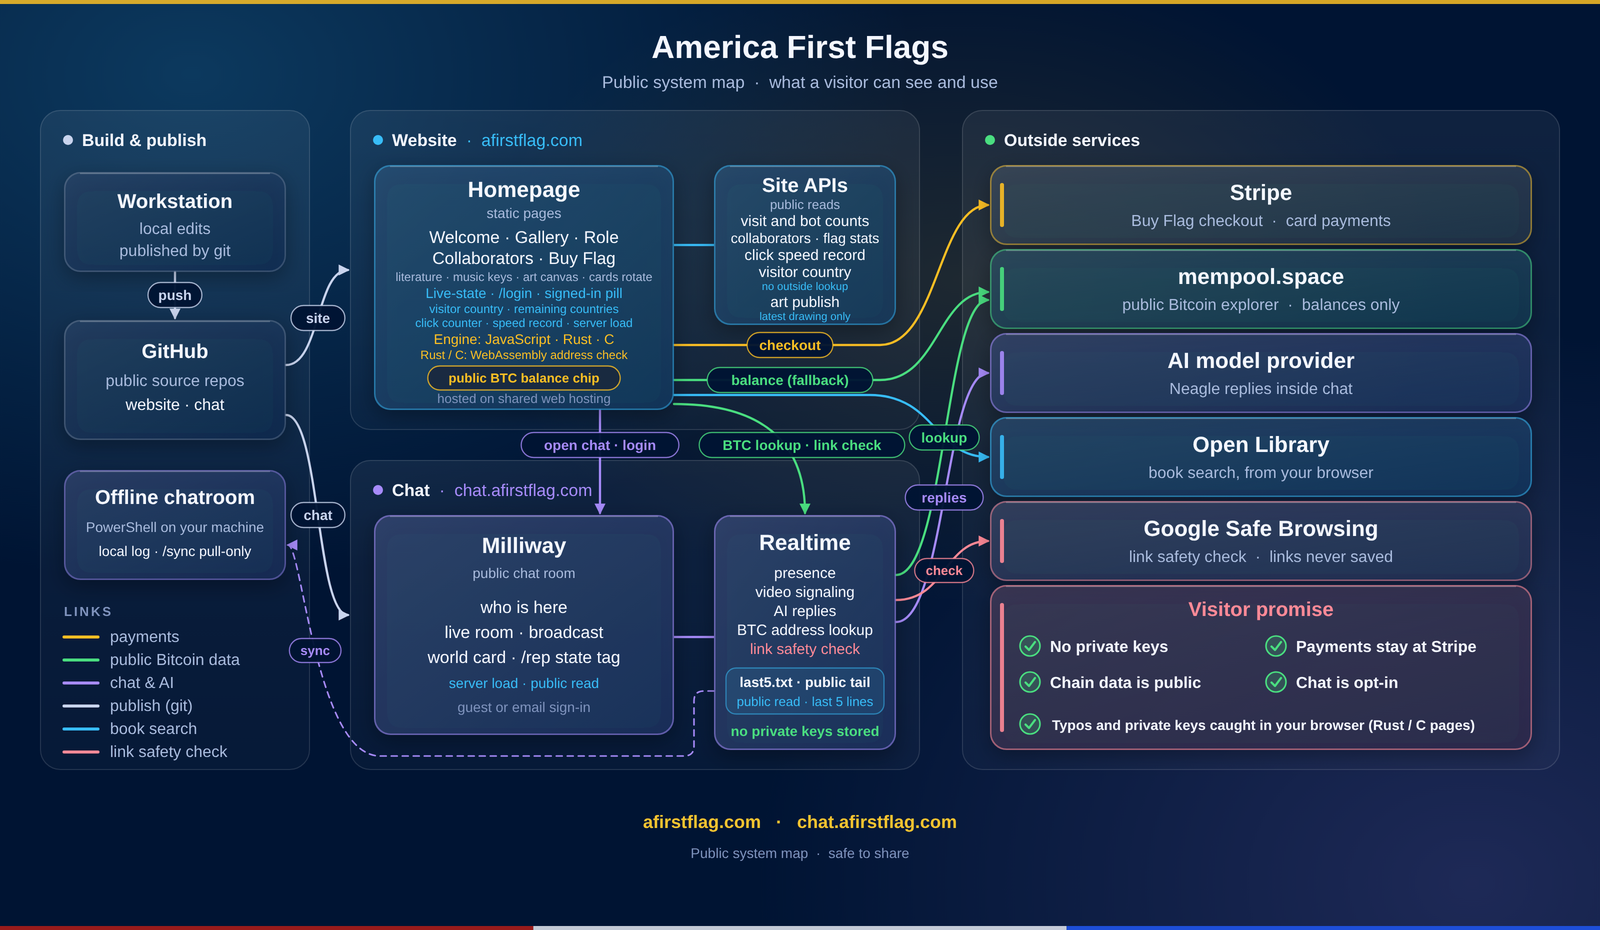
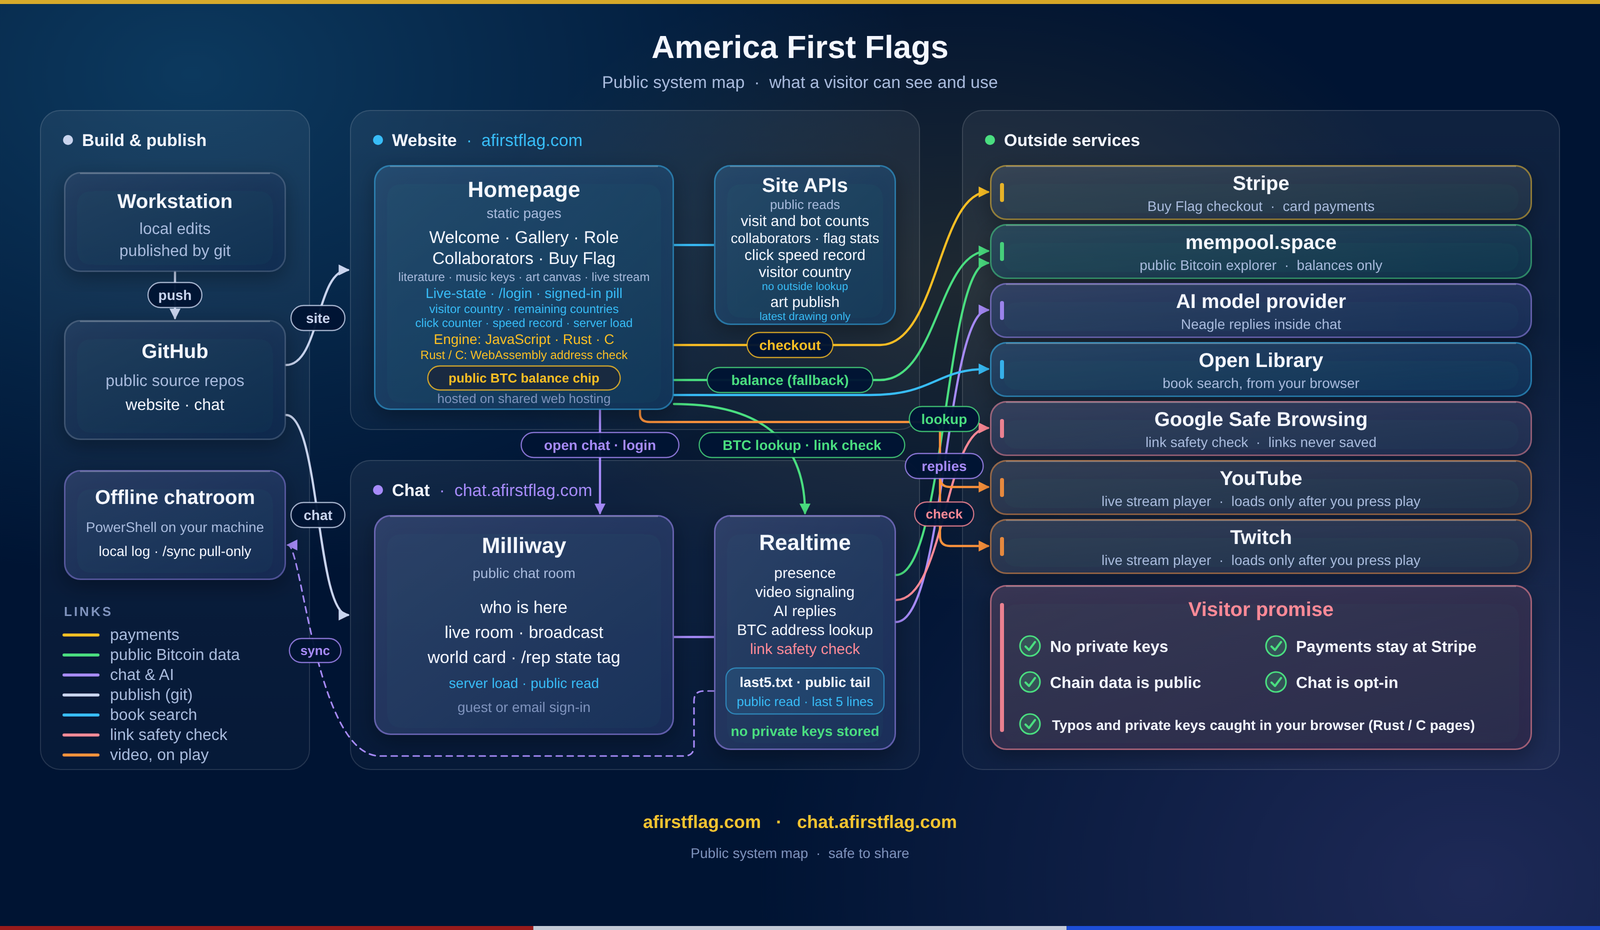
CHG-110: public architecture map rev 15 (?v=109)

Changed region(s): [[0.4062, 0.1871, 0.9688, 0.6548], [0.0312, 0.6548, 0.1562, 0.8419], [0.25, 0.2806, 0.4062, 0.3118]]

diff --git a/index.html b/index.html
@@ -1715,10 +1715,10 @@
       </button>
       <div class="drawer-body" id="how-panel">
         <p class="how-lede">Public system map: what a visitor can see and use. Tap the map to open it full size.</p>
-        <a class="how-map" href="/images/architecture-public.png?v=106" target="_blank" rel="noopener">
+        <a class="how-map" href="/images/architecture-public.png?v=109" target="_blank" rel="noopener">
           <picture>
-            <source srcset="/images/architecture-public.webp?v=106" type="image/webp">
-            <img src="/images/architecture-public.png?v=106" width="1600" height="930" loading="lazy" decoding="async" alt="Public system map of America First Flags. The website, afirstflag.com, serves the homepage sections (welcome, gallery, role, collaborators, and Buy Flag, plus a public BTC balance chip) and site APIs for visit and bot counts, collaborators, flag stats, the click speed record, art publish, and the visitor country (looked up on the site, no outside lookup). The chat, chat.afirstflag.com, is the Milliway public chat room with realtime presence, video signaling, AI replies, BTC address lookup, and a link safety check, and stores no private keys. Outside services: Stripe for Buy Flag checkout and card payments, mempool.space as the public Bitcoin explorer for balances only, an AI model provider for Neagle replies inside chat, and Google Safe Browsing for the link safety check. Both sites are published from a workstation through public GitHub repos. Visitor promise: no private keys, payments stay at Stripe, chain data is public, chat is opt-in. The homepage Live-state panel has a /login command that opens chat sign-in. The chat publishes a public tail of the last 5 public chat lines (last5.txt), and an offline chatroom on the owner's machine pulls that tail with /sync. The Live-state panel also shows a signed-in pill, and signed-in chat members can add a state tag with /rep. The Live-state panel also has an Engine row (Run page in JavaScript, Rust, or C); the Rust and C pages check Bitcoin addresses in the visitor's browser with WebAssembly before any lookup is sent, so typos and private keys are caught there on those pages. The Live-state panel also has a click counter that stays in the visitor's browser (browser-local storage); its best click speed runs can set a site-wide click speed record kept by the site APIs, and the Buy Flag window rotates its cards while open. The Live-state panel also shows a visitor country pill with a flag, found from the visitor's IP address in a database kept on the site, so the address is not sent to any outside service. A remaining countries pill shows how many countries no visitor has come from yet. The Live-state panel also shows the chat server load, read from a public read-only feed on the chat. The homepage also has a literature search: the visitor's browser asks Open Library, an outside book catalog, for books matching a title. The homepage also has a music keyboard that plays notes in the visitor's browser, with no outside requests. The homepage also has an art canvas: visitors draw in their browser, and can publish one drawing that replaces the previous one.">
+            <source srcset="/images/architecture-public.webp?v=109" type="image/webp">
+            <img src="/images/architecture-public.png?v=109" width="1600" height="930" loading="lazy" decoding="async" alt="Public system map of America First Flags. The website, afirstflag.com, serves the homepage sections (welcome, gallery, role, collaborators, and Buy Flag, plus a public BTC balance chip) and site APIs for visit and bot counts, collaborators, flag stats, the click speed record, art publish, and the visitor country (looked up on the site, no outside lookup). The chat, chat.afirstflag.com, is the Milliway public chat room with realtime presence, video signaling, AI replies, BTC address lookup, and a link safety check, and stores no private keys. Outside services: Stripe for Buy Flag checkout and card payments, mempool.space as the public Bitcoin explorer for balances only, an AI model provider for Neagle replies inside chat, Google Safe Browsing for the link safety check, and YouTube and Twitch as live stream players (they load only after you press play). Both sites are published from a workstation through public GitHub repos. Visitor promise: no private keys, payments stay at Stripe, chain data is public, chat is opt-in. The homepage Live-state panel has a /login command that opens chat sign-in. The chat publishes a public tail of the last 5 public chat lines (last5.txt), and an offline chatroom on the owner's machine pulls that tail with /sync. The Live-state panel also shows a signed-in pill, and signed-in chat members can add a state tag with /rep. The Live-state panel also has an Engine row (Run page in JavaScript, Rust, or C); the Rust and C pages check Bitcoin addresses in the visitor's browser with WebAssembly before any lookup is sent, so typos and private keys are caught there on those pages. The Live-state panel also has a click counter that stays in the visitor's browser (browser-local storage); its best click speed runs can set a site-wide click speed record kept by the site APIs, and the Buy Flag window rotates its cards while open. The Live-state panel also shows a visitor country pill with a flag, found from the visitor's IP address in a database kept on the site, so the address is not sent to any outside service. A remaining countries pill shows how many countries no visitor has come from yet. The Live-state panel also shows the chat server load, read from a public read-only feed on the chat. The homepage also has a literature search: the visitor's browser asks Open Library, an outside book catalog, for books matching a title. The homepage also has a music keyboard that plays notes in the visitor's browser, with no outside requests. The homepage also has an art canvas: visitors draw in their browser, and can publish one drawing that replaces the previous one. The homepage also has a Live Stream drawer: visitors can play a YouTube or Twitch stream, which loads only after they press play.">
           </picture>
         </a>
       </div>
